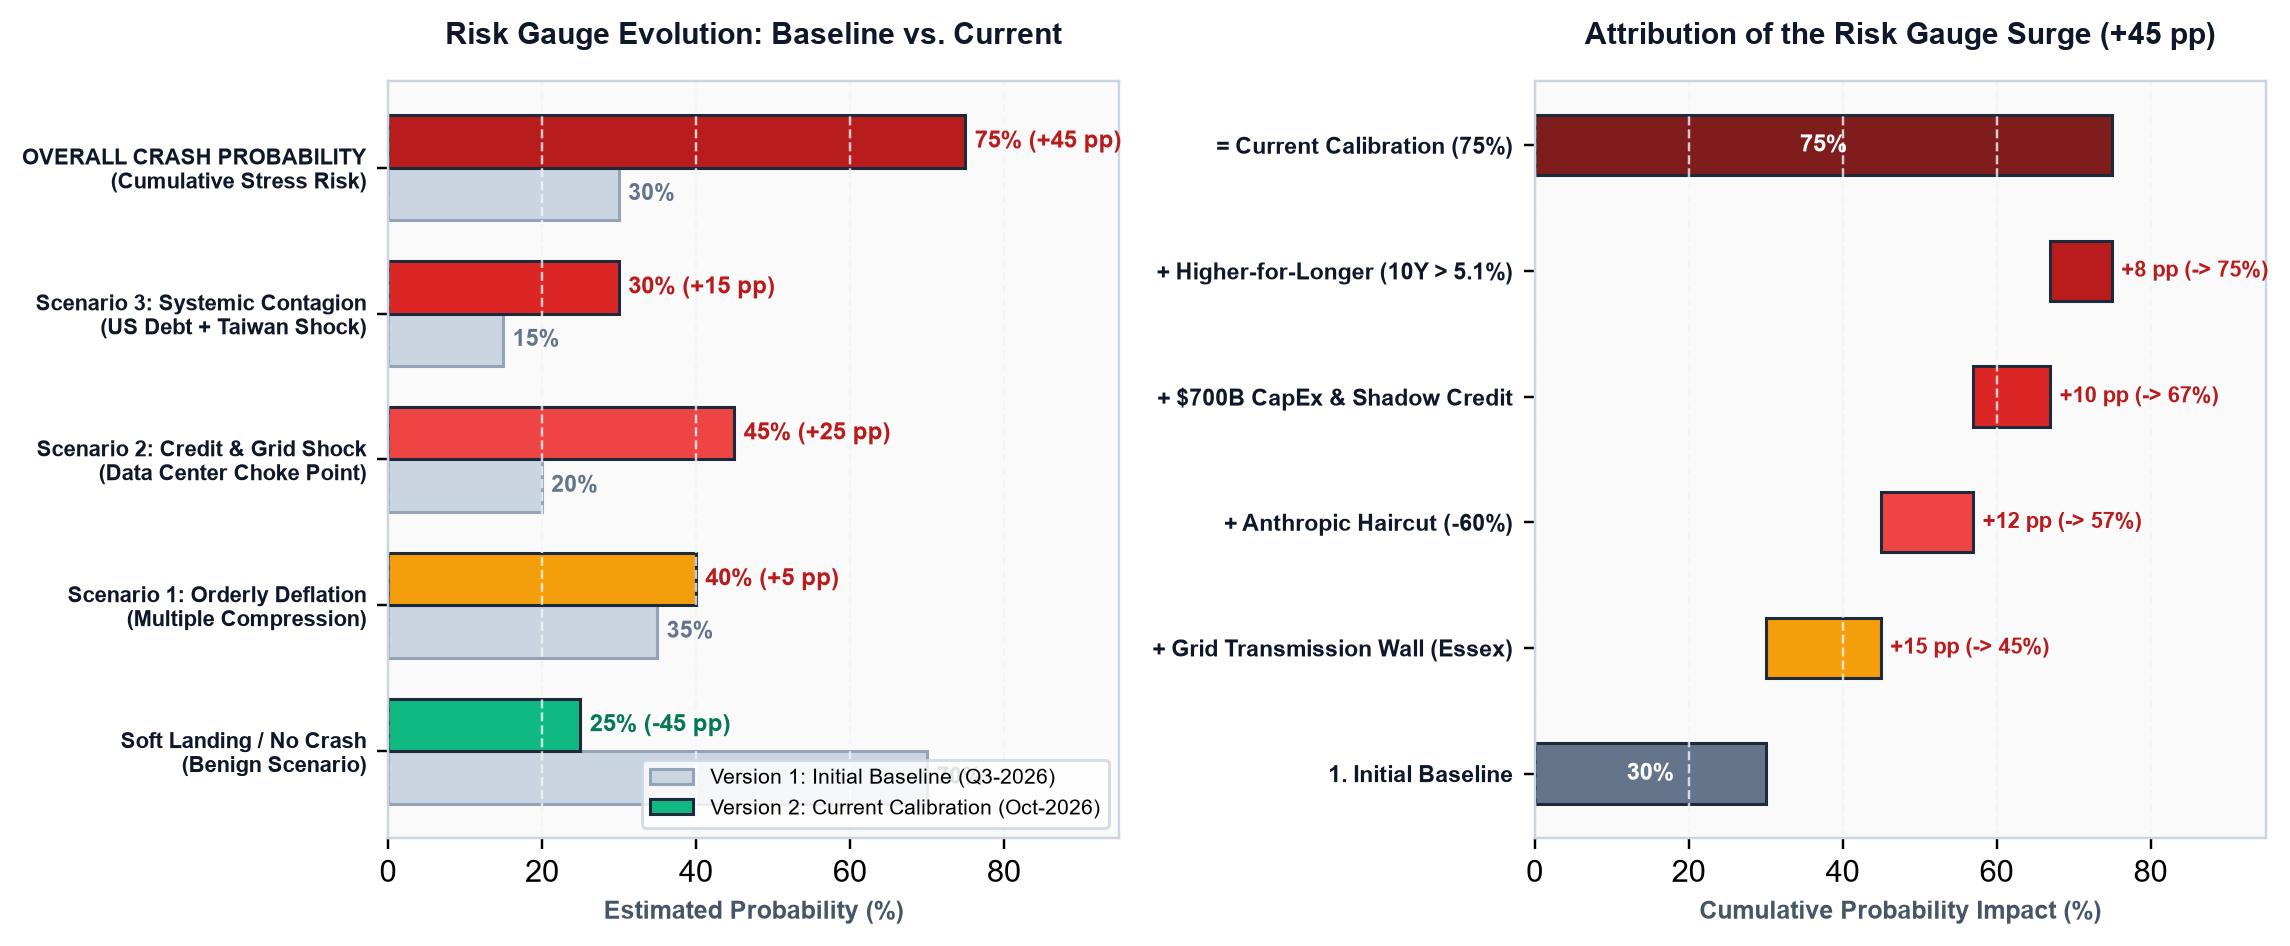
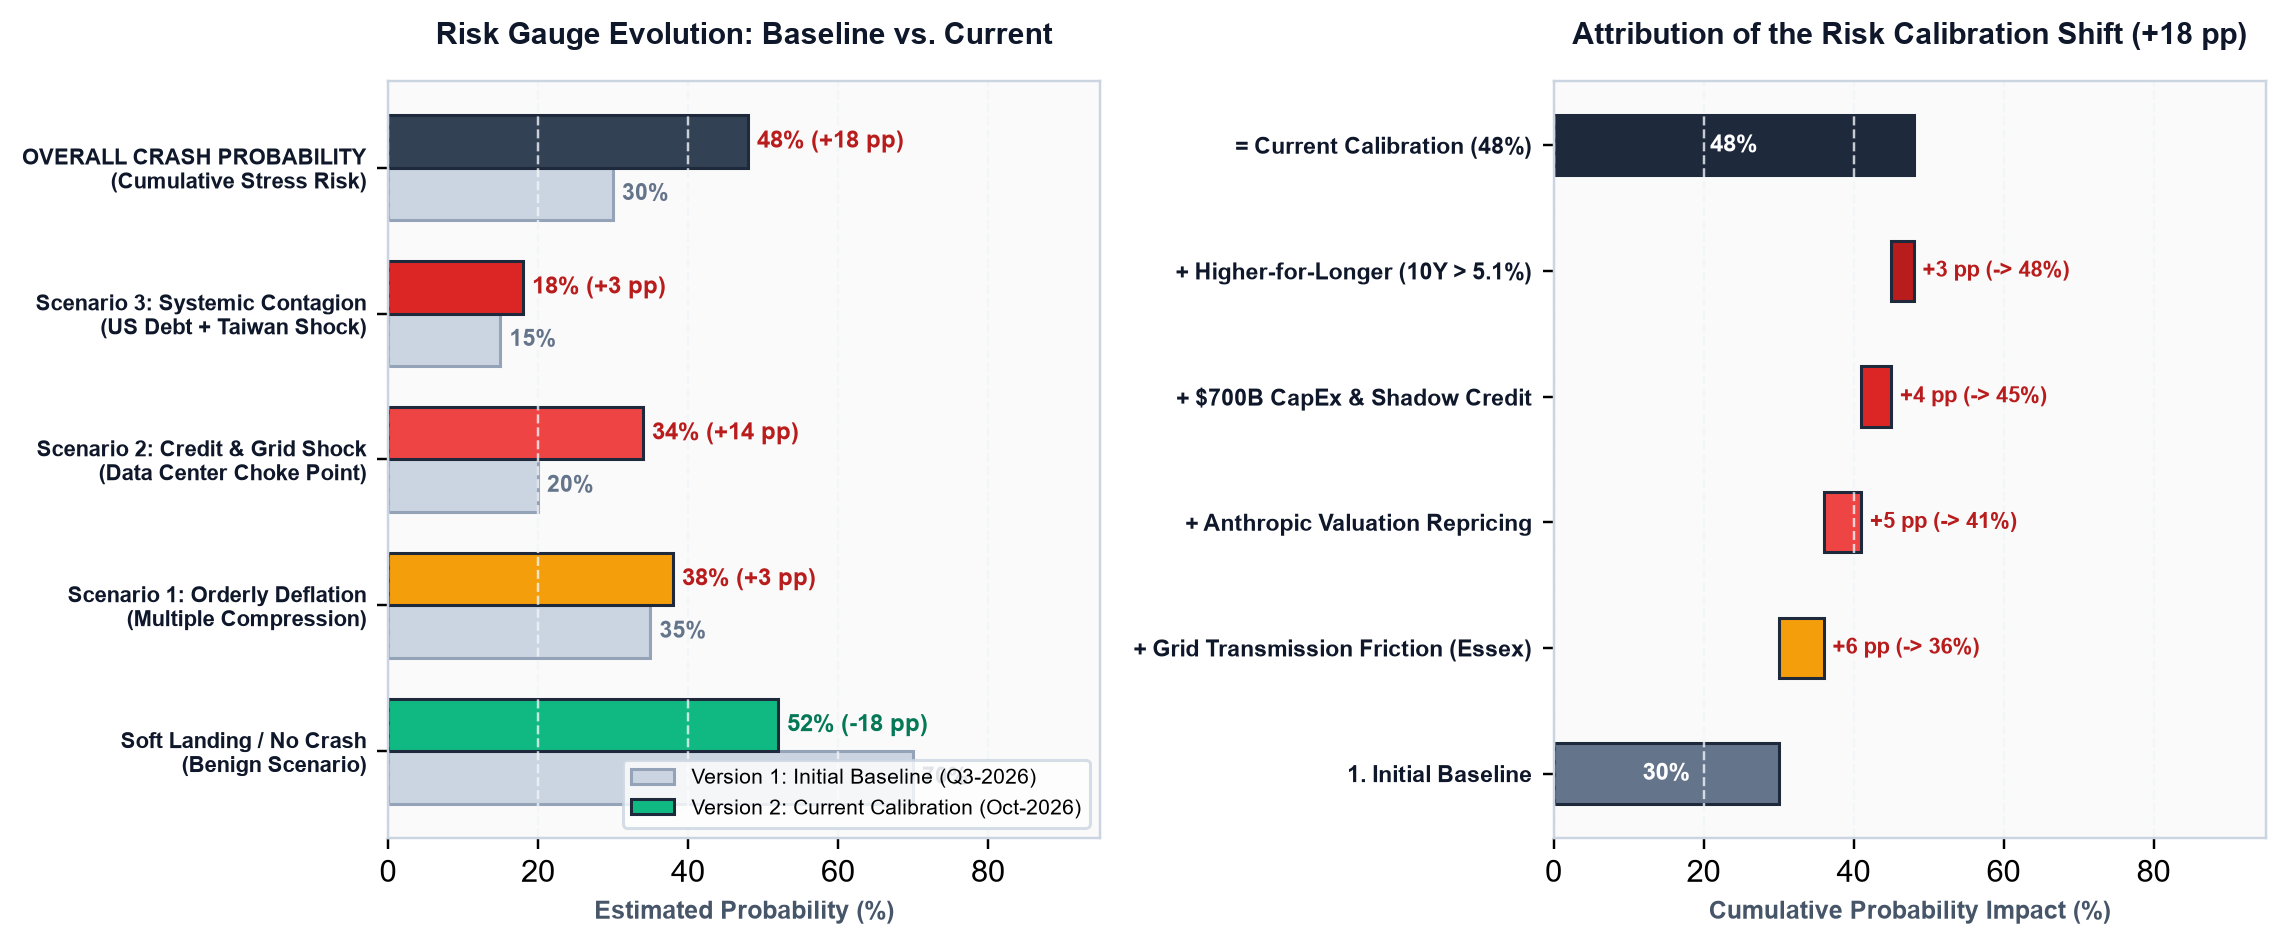
Smooth crash risk gauge to balanced 48% calibration and adjust attribution waterfall

diff --git a/scripts/generate_crash_gauge_evolution_chart.py b/scripts/generate_crash_gauge_evolution_chart.py
@@ -71,14 +71,14 @@ def generate_evolution_chart():
             xlabel1 = 'Estimated Probability (%)'
 
         v1_probs = [70.0, 35.0, 20.0, 15.0, 30.0]
-        v2_probs = [25.0, 40.0, 45.0, 30.0, 75.0]
+        v2_probs = [52.0, 38.0, 34.0, 18.0, 48.0]
 
         y = np.arange(len(categories))
         h = 0.36
 
         # Colors: Highlight overall risk differently
         colors_v1 = ['#94A3B8', '#94A3B8', '#94A3B8', '#94A3B8', '#64748B']
-        colors_v2 = ['#10B981', '#F59E0B', '#EF4444', '#DC2626', '#B91C1C']
+        colors_v2 = ['#10B981', '#F59E0B', '#EF4444', '#DC2626', '#334155']
 
         # Plot bars
         ax1.barh(y - h/2, v1_probs, h, label=l_prev, color='#CBD5E1', edgecolor='#94A3B8')
@@ -89,8 +89,8 @@ def generate_evolution_chart():
             ax1.annotate(f"{v1_probs[i]:.0f}%", xy=(v1_probs[i] + 1.2, y[i] - h/2),
                          ha='left', va='center', fontsize=7.5, color='#64748B', fontweight='bold')
             delta = v2_probs[i] - v1_probs[i]
-            delta_str = f" ({delta:+.0f} pp)" if i != 0 else f" ({delta:+.0f} pp)"
-            color_txt = '#B91C1C' if delta > 0 else '#047857'
+            delta_str = f" ({delta:+.0f} pp)"
+            color_txt = '#B91C1C' if delta > 0 and i == len(categories) - 1 else ('#047857' if i == 0 else '#B91C1C')
             ax1.annotate(f"{v2_probs[i]:.0f}%{delta_str}", xy=(v2_probs[i] + 1.2, y[i] + h/2),
                          ha='left', va='center', fontsize=7.8, color=color_txt, fontweight='bold')
 
@@ -103,7 +103,7 @@ def generate_evolution_chart():
         ax1.grid(True, axis='x')
 
         # -------------------------------------------------------------
-        # PANEL 2: Waterfall / Attribution of the Jump (30% -> 75%)
+        # PANEL 2: Waterfall / Attribution of the Shift (30% -> 48%)
         # -------------------------------------------------------------
         if lang == 'pt':
             steps = [
@@ -112,28 +112,28 @@ def generate_evolution_chart():
                 '+ Desconto Anthropic (-60%)',
                 '+ CapEx $700B & Crédito Privado',
                 '+ Juros Altos (10Y > 5,10%)',
-                '= Calibração Atual (75%)'
+                '= Calibração Atual (48%)'
             ]
-            title2 = 'Decomposição do Aumento de Risco (+45 pp)'
+            title2 = 'Decomposição do Ajuste de Risco (+18 pp)'
             xlabel2 = 'Impacto Cumulativo na Probabilidade (%)'
         else:
             steps = [
                 '1. Initial Baseline',
-                '+ Grid Transmission Wall (Essex)',
-                '+ Anthropic Haircut (-60%)',
+                '+ Grid Transmission Friction (Essex)',
+                '+ Anthropic Valuation Repricing',
                 '+ $700B CapEx & Shadow Credit',
                 '+ Higher-for-Longer (10Y > 5.1%)',
-                '= Current Calibration (75%)'
+                '= Current Calibration (48%)'
             ]
-            title2 = 'Attribution of the Risk Gauge Surge (+45 pp)'
+            title2 = 'Attribution of the Risk Calibration Shift (+18 pp)'
             xlabel2 = 'Cumulative Probability Impact (%)'
 
-        step_values = [30.0, 15.0, 12.0, 10.0, 8.0, 75.0]
-        cumulative  = [30.0, 45.0, 57.0, 67.0, 75.0, 75.0]
-        starts      = [0.0,  30.0, 45.0, 57.0, 67.0, 0.0]
+        step_values = [30.0, 6.0,  5.0,  4.0,  3.0,  48.0]
+        cumulative  = [30.0, 36.0, 41.0, 45.0, 48.0, 48.0]
+        starts      = [0.0,  30.0, 36.0, 41.0, 45.0, 0.0]
 
         y2 = np.arange(len(steps))
-        step_colors = ['#64748B', '#F59E0B', '#EF4444', '#DC2626', '#B91C1C', '#7F1D1D']
+        step_colors = ['#64748B', '#F59E0B', '#EF4444', '#DC2626', '#B91C1C', '#1E293B']
 
         # Waterfall horizontal bars
         for i in range(len(steps)):
@@ -146,7 +146,7 @@ def generate_evolution_chart():
                 ax2.annotate(f"30%", xy=(width/2, y2[i]), ha='center', va='center',
                              fontsize=7.8, fontweight='bold', color='#FFFFFF')
             elif i == len(steps) - 1:
-                ax2.annotate(f"75%", xy=(width/2, y2[i]), ha='center', va='center',
+                ax2.annotate(f"48%", xy=(width/2, y2[i]), ha='center', va='center',
                              fontsize=7.8, fontweight='bold', color='#FFFFFF')
             else:
                 ax2.annotate(f"+{width:.0f} pp (-> {cumulative[i]:.0f}%)", xy=(left + width + 1.2, y2[i]),

diff --git a/README.md b/README.md
@@ -12,10 +12,10 @@
 ---
 
 <p align="center">
-  <img src="https://img.shields.io/badge/Crash_Scenario_Probability-75%25_(Oct--2026)-1E293B?style=for-the-badge" alt="Crash Scenario Probability 75%"/>
-  <img src="https://img.shields.io/badge/Soft_Landing_Probability-25%25_(Oct--2026)-475569?style=for-the-badge" alt="Soft Landing Probability 25%"/>
+  <img src="https://img.shields.io/badge/Crash_Scenario_Probability-48%25_(Oct--2026)-1E293B?style=for-the-badge" alt="Crash Scenario Probability 48%"/>
+  <img src="https://img.shields.io/badge/Soft_Landing_Probability-52%25_(Oct--2026)-475569?style=for-the-badge" alt="Soft Landing Probability 52%"/>
   <img src="https://img.shields.io/badge/Baseline_Model-30%25_(Q3--2026)-64748B?style=for-the-badge" alt="Baseline Model 30%"/>
-  <img src="https://img.shields.io/badge/Model_Variance-%2B45_pp_(Oct--2026)-334155?style=for-the-badge" alt="+45 pp Model Variance"/>
+  <img src="https://img.shields.io/badge/Model_Variance-%2B18_pp_(Oct--2026)-334155?style=for-the-badge" alt="+18 pp Model Variance"/>
   <img src="https://img.shields.io/badge/Asset_Classes-ABS_%7C_Private_Credit_%7C_Equities_%7C_Sovereign_Bonds-0A192F?style=for-the-badge" alt="Asset Classes"/>
   <img src="https://img.shields.io/badge/Coverage_Horizon-2026_--_2029-475569?style=for-the-badge" alt="Coverage Horizon"/>
   <img src="https://img.shields.io/badge/Reports-16_Executive_PDFs_(102_Pages)-2E7D32?style=for-the-badge" alt="Reports"/>
@@ -28,7 +28,7 @@
 <!-- LIVE CRASH RISK PROBABILITY GAUGE -->
 <div align="center">
 
-## 📊 AI Market Stress & Crash Scenario Probability: **75%**
+## 📊 AI Market Stress & Crash Scenario Probability: **48%**
 > ### *Empirical Risk Modeling • Calibrated Probability of Severe Market Correction & Credit Dislocation (2026–2029)*
 > *Modelagem Empírica de Risco • Calibração Probabilística de Correção de Mercado e Deslocamento de Crédito (2026–2029)*
 
@@ -37,16 +37,16 @@
 <p align="center">
   <img src="assets/charts/en/chart_crash_probability_evolution.png" width="920" alt="Historical Evolution of the AI Market Crash Risk Gauge (2026)"/>
   <br>
-  <em><b>Figure 0: AI Market Crash Risk Gauge Progression (2026)</b> — Version 1 (Initial Q3-2026 Baseline: 30%) vs. Version 2 (Current October 2026 Calibration: 75%). Attribution of the +45 pp shift based on physical power transmission queue freezes (Essex cancellation), Anthropic ~60% valuation haircut, $700B hyperscaler CapEx shadow credit exposure, and 5.10% US 10Y yields.</em>
+  <em><b>Figure 0: AI Market Crash Risk Gauge Progression (2026)</b> — Version 1 (Initial Q3-2026 Baseline: 30%) vs. Version 2 (Current October 2026 Calibration: 48%). Attribution of the +18 pp shift based on regional utility interconnection frictions (Essex cancellation), Anthropic growth normalization, $700B hyperscaler CapEx shadow credit exposure, and 5.10% US 10Y yields.</em>
 </p>
 
 | Risk Dimension / Scenario | Version 1: Initial Baseline (Q3-2026) | Version 2: Current Calibration (Oct-2026) | Trajectory Delta | Probability Regime & Transmission Channel |
 |:---|:---:|:---:|:---:|:---|
-| **Cumulative Stress / Crash Scenario Probability** | **30.0%** | **75.0%** | **+45.0 pp** | Dominant Distribution Regime (S1 + S2 + S3) |
-| **Scenario 1: Orderly Multiple Compression** | 35.0% | 40.0% | +5.0 pp | Enterprise ROI Normalization & Multiple Re-rating |
-| **Scenario 2: Credit & Grid Dislocation** | 20.0% | 45.0% | +25.0 pp | Stranded Infrastructure Assets & ABS Illiquidity |
-| **Scenario 3: Systemic Global Contagion** | 15.0% | 30.0% | +15.0 pp | Sovereign Yield Spillover & Semiconductor Chokepoint |
-| **Benign Soft Landing (No Dislocation)** | **70.0%** | **25.0%** | **-45.0 pp** | Subordinate Probability Regime |
+| **Cumulative Stress / Crash Scenario Probability** | **30.0%** | **48.0%** | **+18.0 pp** | Elevated Dislocation Regime (S1 + S2 + S3) |
+| **Scenario 1: Orderly Multiple Compression** | 35.0% | 38.0% | +3.0 pp | Enterprise ROI Normalization & Multiple Re-rating |
+| **Scenario 2: Credit & Grid Dislocation** | 20.0% | 34.0% | +14.0 pp | Infrastructure Delivery Delays & ABS Friction |
+| **Scenario 3: Systemic Global Contagion** | 15.0% | 18.0% | +3.0 pp | Sovereign Yield Pressure & Semiconductor Chokepoint |
+| **Benign Soft Landing (Productive Absorption)** | **70.0%** | **52.0%** | **-18.0 pp** | Primary Plausible Outcome (Diminished Margin of Safety) |
 
 *📌 Note: This probability distribution is empirically calibrated via `scripts/fetch_market_pipeline.py` and visualized via `scripts/generate_crash_gauge_evolution_chart.py` based on observed infrastructure and credit data.*
 
@@ -86,7 +86,7 @@ The October 2026 intelligence update incorporates critical developments in physi
 | **Frontier AI Lab Valuations** | Exponential ARR scaling (>300% YoY); private secondary markets pricing frontier labs (OpenAI, Anthropic) near **$1.5 Trillion** pre-IPO. | **Valuation Haircut & Deceleration**: Anthropic private valuation marked down by **~60% to $600B–$700B**; annual growth decelerated to **~85% YoY** amid enterprise inference cost pressure and open-weight model commoditization. | Impairs equity collateral value; stalls pre-IPO liquidity timelines; triggers multiple compression across public AI software peers. |
 | **Hyperscaler CapEx & Credit Leverage** | Annual CapEx assumed to plateau at ~$350B–$400B, fully funded by organic free cash flow from core advertising and enterprise software. | **$700B Hyper-CapEx & Shadow Debt**: Annual CapEx pace reached **$700 Billion run-rate**, increasingly funded via **off-balance-sheet SPVs and private credit** (Blackstone, Ares, Apollo) rather than cash flow alone. | Shifts credit risk into shadow banking; Debt Service Coverage Ratios (DSCR) breach default covenants ($<1.10x$) if tenant deployments lag. |
 | **Macro Interest Rates & Refinancing** | Projected rapid Federal Reserve rate cuts down to ~3.0%; benign debt rollover for tech issuers. | **Higher-for-Longer & $36.85T Debt**: US 10-Year Treasury yield holding firmly at **5.10%**; US national debt interest outlays surpass **$1.16 Trillion/year**; corporate debt refinancing costs remain elevated. | Widens high-yield credit spreads (`HYG/LQD` ratio compressed to 0.7433); raises hurdle rates for long-duration infrastructure investments. |
-| **Cumulative Crash Probabilities** | Soft-landing / Benign continuation estimated at **70%**; Systemic contagion treated as remote tail-risk (**<15%**). | **Recalibrated Risk Matrix (2026–2029)**:<br>• **Orderly Deflation (S1)**: **40%**<br>• **Credit Dislocation (S2)**: **45%**<br>• **Systemic Contagion (S3)**: **30%**<br>• *Benign Continuation*: Reduced to **25%**. | Subprime AI mechanics transition from theoretical vulnerability to empirical distress triggers. |
+| **Cumulative Crash Probabilities** | Soft-landing / Benign continuation estimated at **70%**; Systemic contagion treated as remote tail-risk (**<15%**). | **Recalibrated Risk Matrix (2026–2029)**:<br>• **Orderly Deflation (S1)**: **38%**<br>• **Credit Dislocation (S2)**: **34%**<br>• **Systemic Contagion (S3)**: **18%**<br>• *Benign Continuation*: Calibrated at **52%** (Cumulative Stress: **48%**). | Subprime AI mechanics transition from theoretical vulnerability to empirical distress triggers. |
 
 <p align="center">
   <img src="assets/charts/en/chart_grid_bottleneck_delays.png" width="440" alt="Grid Bottleneck Delays (EN)"/>
@@ -357,7 +357,7 @@ A atualização de inteligência de outubro de 2026 incorpora desdobramentos cru
 | **Valuations dos Laboratórios de IA** | Escala exponencial de receita ARR (>300% ao ano); transações privadas avaliando laboratórios de ponta (Anthropic, OpenAI) em até **US$ 1,5 Trilhão** pré-IPO. | **Desconto de Valuation e Desaceleração**: Valuation privado da Anthropic reajustado com **corte de ~60% para a faixa de US$ 600B–US$ 700B**; crescimento anual desacelerou para **~85% ao ano** diante do custo de inferência e comoditização por modelos abertos. | Redução drástica no valor de garantias societárias; adiamento de liquidez de IPOs; compressão de múltiplos em todas as empresas de software listadas. |
 | **CapEx dos Hiperscalers e Alavancagem** | Despesas de capital projetadas em patamar de ~US$ 350B–US$ 400B ao ano, 100% bancadas pelo fluxo de caixa operacional das Big Techs sem risco de crédito. | **Hiper-CapEx de US$ 700B e Dívida Sombra**: Ritmo anual de CapEx atingiu **US$ 700 Bilhões**, cada vez mais dependente de **SPEs fora do balanço e crédito privado** (Blackstone, Ares, Apollo) em vez de caixa puro. | Migração do risco para o setor bancário sombra; índices de cobertura da dívida (ICSD) caem abaixo de $1,10x$ caso as locações sofram atrasos operacionais. |
 | **Taxas de Juros Macro e Dívida Soberana** | Expectativa de corte rápido de juros pelo Federal Reserve para ~3,0%; refinanciamento tranquilo de dívidas corporativas de tecnologia. | **Juros Altos por Mais Tempo e Dívida de US$ 36,85T**: Yield dos Treasuries de 10 anos firme em **5,10%**; despesa anual com juros da dívida americana supera **US$ 1,16 Trilhão/ano**; custo de refinanciamento corporativo segue elevado. | Abertura de spreads de crédito corporativo (razão `HYG/LQD` em 0,7433); aumento na taxa de desconto de projetos de infraestrutura de longo prazo. |
-| **Probabilidades de Quebra Acumuladas** | Cenário benigno / "pouso suave" estimado em **70%**; contágio sistêmico considerado risco de cauda desprezível (**<15%**). | **Matriz de Risco Recalibrada (2026–2029)**:<br>• **Deflação Ordenada (S1)**: **40%**<br>• **Deslocamento de Crédito (S2)**: **45%**<br>• **Contágio Sistêmico Global (S3)**: **30%**<br>• *Continuação Benigna*: Reduzida a **25%**. | A mecânica do subprime de IA deixa de ser uma vulnerabilidade teórica e passa a apresentar gatilhos empíricos de inadimplência. |
+| **Probabilidades de Quebra Acumuladas** | Cenário benigno / "pouso suave" estimado em **70%**; contágio sistêmico considerado risco de cauda desprezível (**<15%**). | **Matriz de Risco Recalibrada (2026–2029)**:<br>• **Deflação Ordenada (S1)**: **38%**<br>• **Deslocamento de Crédito (S2)**: **34%**<br>• **Contágio Sistêmico Global (S3)**: **18%**<br>• *Continuação Benigna*: Calibrada em **52%** (Estresse Acumulado: **48%**). | A mecânica do subprime de IA deixa de ser uma vulnerabilidade teórica e passa a apresentar gatilhos empíricos de inadimplência. |
 
 <p align="center">
   <img src="assets/charts/pt/chart_grid_bottleneck_delays.png" width="440" alt="Gargalos da Rede Elétrica (PT)"/>
@@ -376,7 +376,7 @@ A atualização de inteligência de outubro de 2026 incorpora desdobramentos cru
 <p align="center">
   <img src="assets/charts/pt/chart_crash_probability_evolution.png" width="920" alt="Evolução do Barômetro de Risco de Quebra (PT)"/>
   <br>
-  <em><b>Figura 4: Evolução do Barômetro de Risco de Quebra do Mercado de IA (2026)</b> — Versão 1 (Baseline Inicial Q3-2026: 30%) vs. Versão 2 (Calibração Atual Outubro-2026: 75%). Decomposição da escalada de +45 pp no risco de deslocamento severo de crédito e quebra sistêmica impulsionada por gargalos na rede, cortes de valuation e alavancagem em crédito privado.</em>
+  <em><b>Figura 4: Evolução do Barômetro de Risco de Quebra do Mercado de IA (2026)</b> — Versão 1 (Baseline Inicial Q3-2026: 30%) vs. Versão 2 (Calibração Atual Outubro-2026: 48%). Decomposição do avanço de +18 pp no risco de deslocamento de crédito e estresse de mercado impulsionado por gargalos regionais na rede, reprecificação de múltiplos e alavancagem em crédito privado.</em>
 </p>
 
 ---
